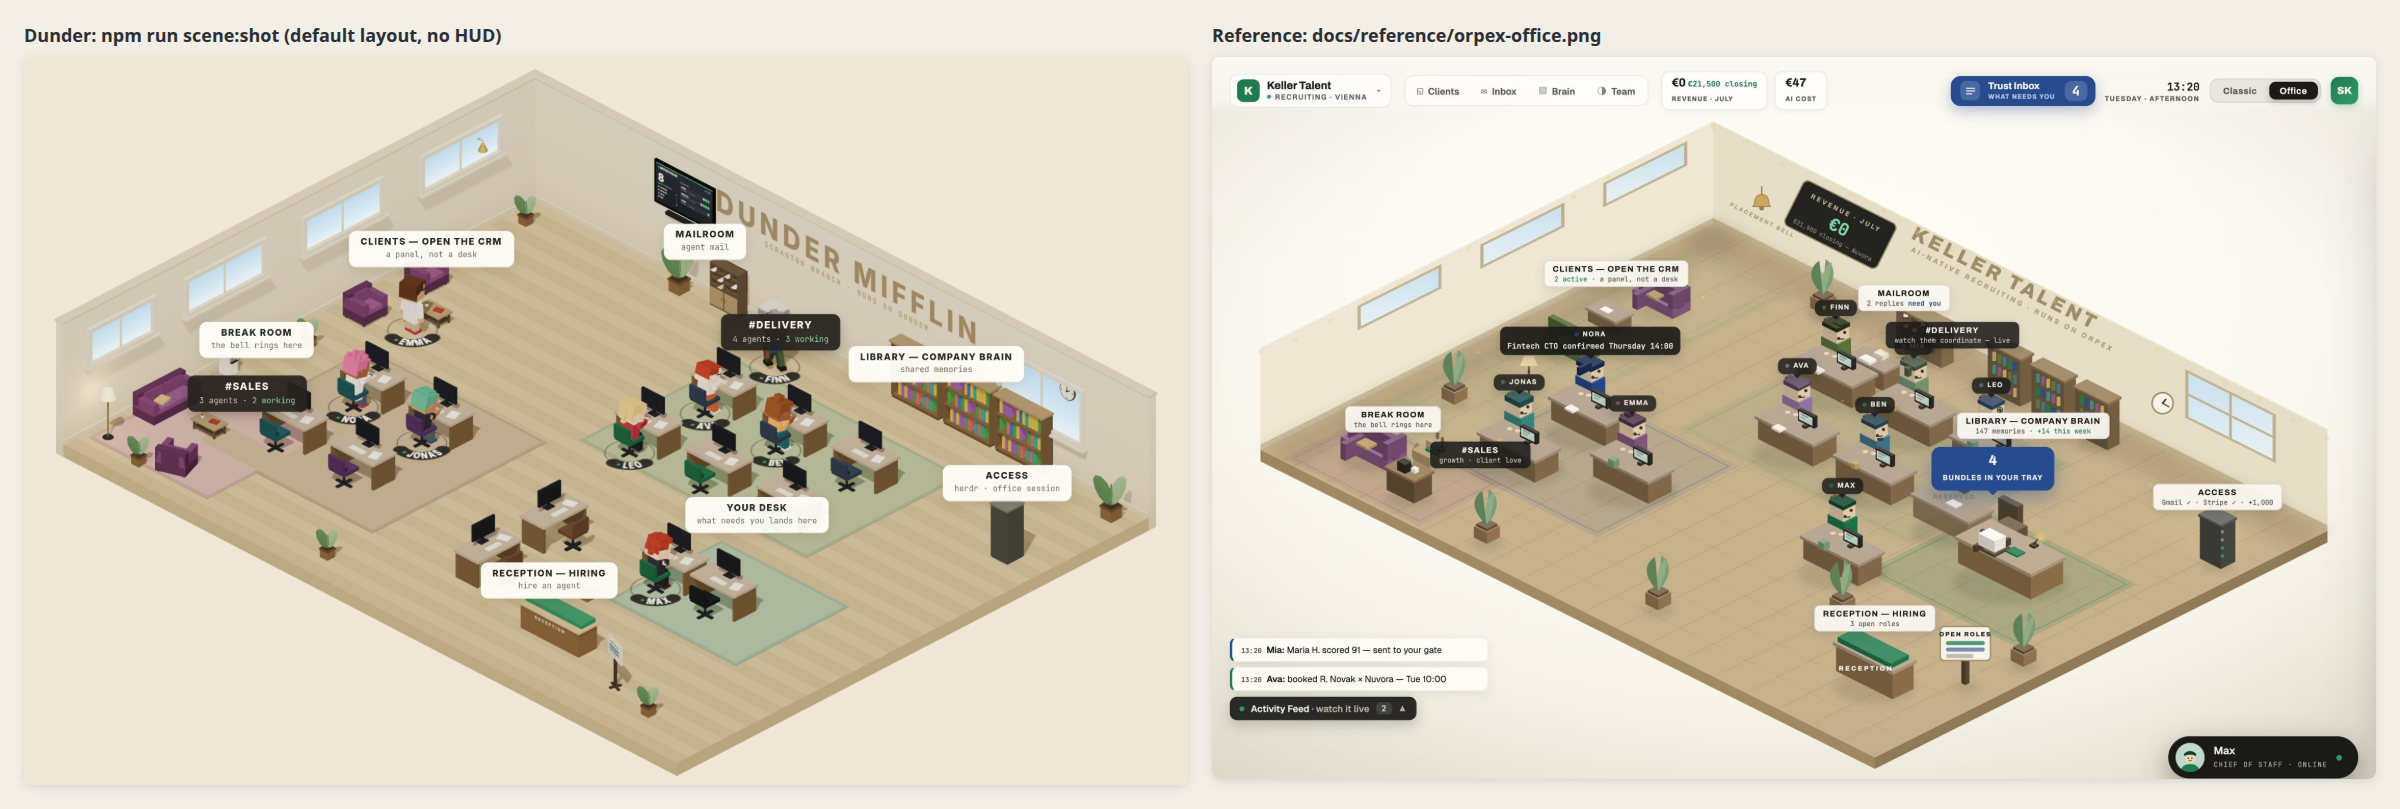
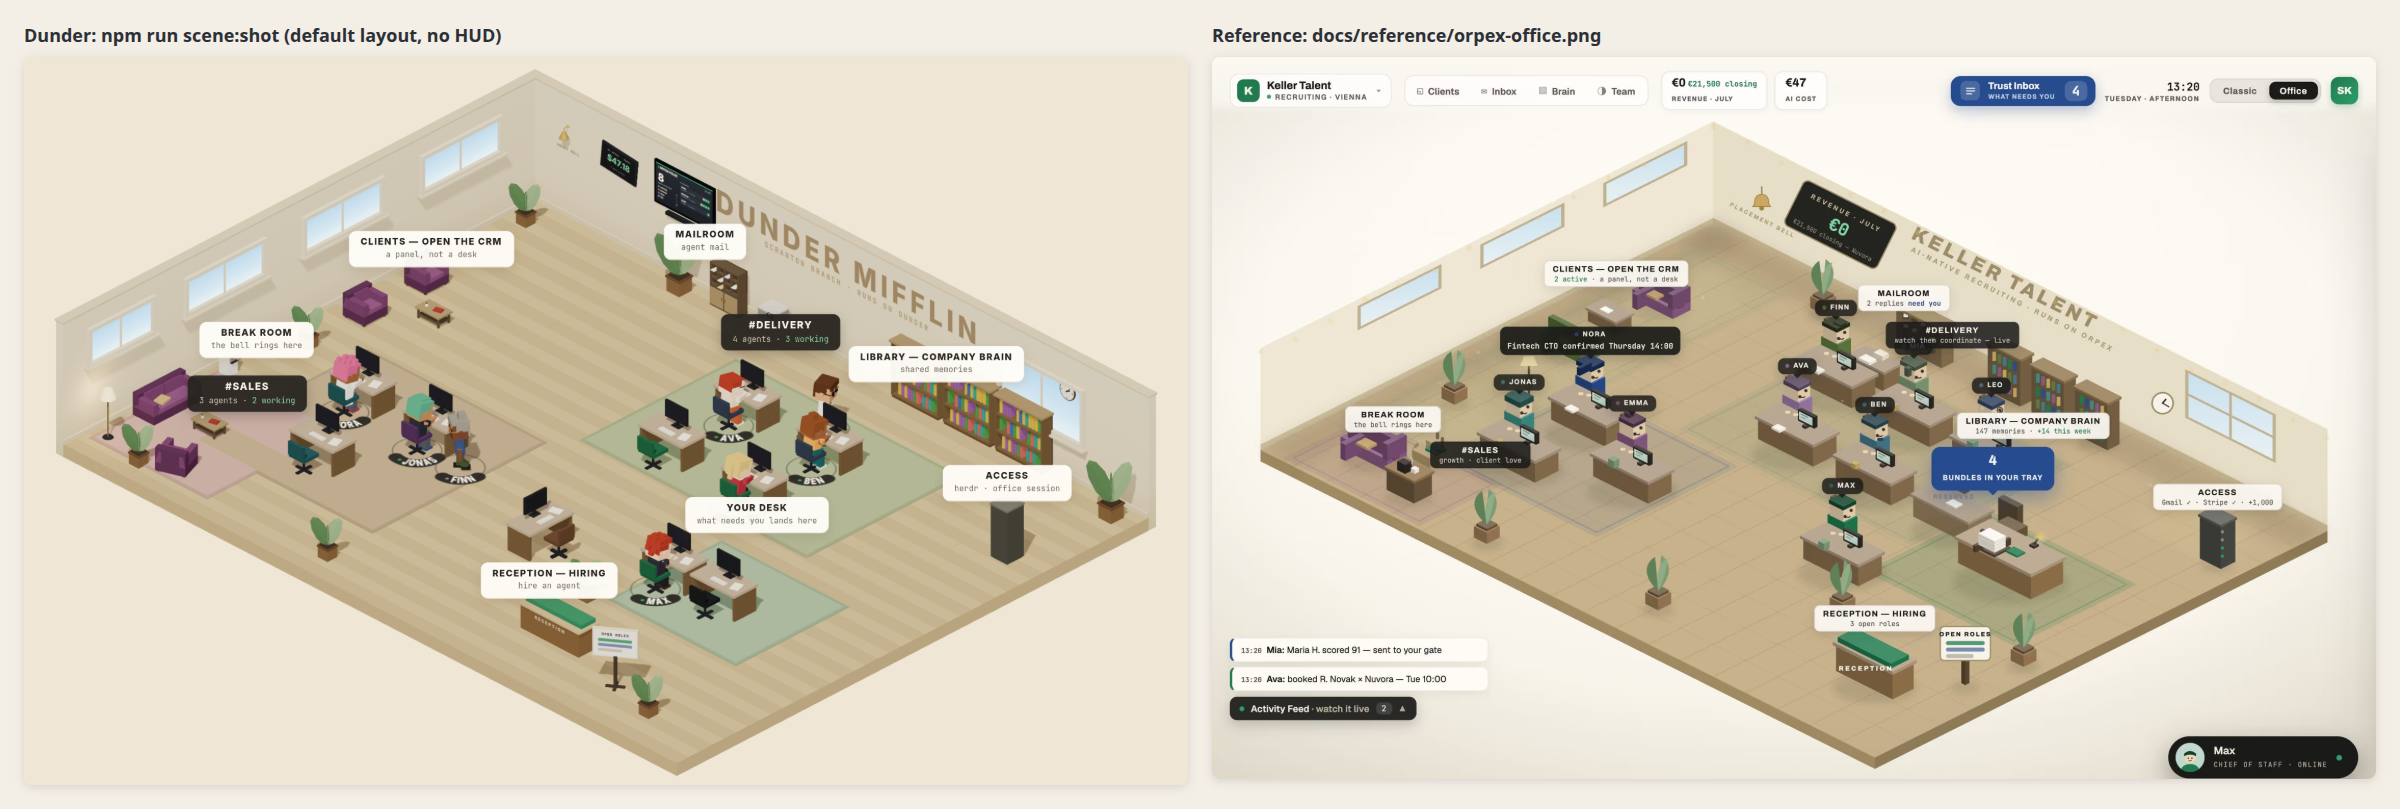
office-vl9.8: fewer, mostly filled desks; bigger plants and OPEN ROLES board; AI spend wall placard beside a labelled bell; new scene shots

diff --git a/src/shared/layout/default-layout.ts b/src/shared/layout/default-layout.ts
@@ -82,79 +82,60 @@ export const DEFAULT_LAYOUT: Layout = layoutSchema.parse({
 			labelAt: { x: 5.4, z: 7.8 },
 		},
 	],
+	// Few stations, mostly filled, as in the reference: a staggered sales pod, a
+	// 2 × 2 delivery block and one shared desk for agents from other workspaces.
+	// Edit mode adds desks as the team grows.
 	desks: [
 		{
 			id: "sales-1",
-			position: { x: -8.3, z: 1.6 },
+			position: { x: -8.3, z: 2 },
 			rotation: 0,
 			zoneId: "sales",
 			chairColor: "#2f5d63",
 		},
 		{
 			id: "sales-2",
-			position: { x: -5.4, z: 1.6 },
+			position: { x: -5.2, z: 2 },
 			rotation: 0,
 			zoneId: "sales",
 			chairColor: "#5d3f6a",
 		},
 		{
 			id: "sales-3",
-			position: { x: -8.3, z: 4.9 },
+			position: { x: -6.8, z: 5.2 },
 			rotation: 0,
 			zoneId: "sales",
 			chairColor: "#2f5d63",
 		},
 		{
-			id: "sales-4",
-			position: { x: -5.4, z: 4.9 },
-			rotation: 0,
-			zoneId: "sales",
-			chairColor: "#5d3f6a",
-		},
-		{
 			id: "delivery-1",
-			position: { x: -0.6, z: -5.6 },
+			position: { x: 0.4, z: -5.6 },
 			rotation: 0,
 			zoneId: "delivery",
 			chairColor: "#3d4a5c",
 		},
 		{
 			id: "delivery-2",
-			position: { x: 2.4, z: -5.6 },
+			position: { x: 3.9, z: -5.6 },
 			rotation: 0,
 			zoneId: "delivery",
 			chairColor: "#3d4a5c",
 		},
 		{
 			id: "delivery-3",
-			position: { x: 5.4, z: -5.6 },
+			position: { x: 0.4, z: -2.4 },
 			rotation: 0,
 			zoneId: "delivery",
-			chairColor: "#3d4a5c",
+			chairColor: "#2f6b4c",
 		},
 		{
 			id: "delivery-4",
-			position: { x: -0.6, z: -2.4 },
+			position: { x: 3.9, z: -2.4 },
 			rotation: 0,
 			zoneId: "delivery",
 			chairColor: "#2f6b4c",
 		},
-		{
-			id: "delivery-5",
-			position: { x: 2.4, z: -2.4 },
-			rotation: 0,
-			zoneId: "delivery",
-			chairColor: "#2f6b4c",
-		},
-		{
-			id: "delivery-6",
-			position: { x: 5.4, z: -2.4 },
-			rotation: 0,
-			zoneId: "delivery",
-			chairColor: "#2f6b4c",
-		},
-		{ id: "open-1", position: { x: 1.2, z: 3.4 }, rotation: 90, chairColor: "#6b4f3a" },
-		{ id: "open-2", position: { x: 1.2, z: 6.2 }, rotation: 90, chairColor: "#6b4f3a" },
+		{ id: "open-1", position: { x: 1.2, z: 4 }, rotation: 90, chairColor: "#6b4f3a" },
 		{
 			id: "your-desk",
 			position: { x: 7.6, z: 2.6 },
@@ -189,15 +170,16 @@ export const DEFAULT_LAYOUT: Layout = layoutSchema.parse({
 		{ id: "shelf-3", kind: "bookshelf", position: { x: 8, z: -9.7 } },
 		{ id: "server-rack", kind: "server-rack", position: { x: 11.6, z: -5.4 }, rotation: -90 },
 		{ id: "reception", kind: "reception-desk", position: { x: 5.4, z: 7.4 } },
-		{ id: "open-roles", kind: "notice-board", position: { x: 8.6, z: 8.2 }, rotation: -20 },
+		// Turned toward the camera (which looks from +x/+z), so its front faces the viewer.
+		{ id: "open-roles", kind: "notice-board", position: { x: 8.6, z: 8.2 }, rotation: 35 },
 		{
 			id: "bell",
 			kind: "wall-bell",
-			position: { x: -13, z: -7.6 },
-			rotation: 90,
+			position: { x: -11.6, z: -10 },
 			elevation: 2.9,
 			label: "AGENT BELL",
 		},
+		{ id: "spend-placard", kind: "wall-placard", position: { x: -9.4, z: -10 }, elevation: 2.8 },
 		{ id: "tv", kind: "wall-tv", position: { x: -6.6, z: -10 }, elevation: 2.9 },
 		{ id: "clock", kind: "wall-clock", position: { x: 9.6, z: -10 }, elevation: 3 },
 		{ id: "plant-1", kind: "plant", position: { x: -11.8, z: 0.8 } },

diff --git a/src/renderer/src/features/office/decor/wall-items.tsx b/src/renderer/src/features/office/decor/wall-items.tsx
@@ -3,6 +3,7 @@ import { useFrame, useThree } from "@react-three/fiber";
 import { useEffect, useRef, useState } from "react";
 import type { Group } from "three";
 import { ringBell } from "../../calisthenics/workout-store";
+import { useCostToday } from "../../hud/live-data";
 import { FONTS } from "../fonts";
 import { Clickable } from "../interaction/Clickable";
 import { PALETTE } from "./palette";
@@ -80,19 +81,82 @@ export function WallBell({ label }: DecorProps) {
 				</group>
 			</group>
 			{label ? (
+				// Painted on the wall below the bell, large enough to read from the overview.
 				<Text
 					font={FONTS.monoBold}
-					fontSize={0.07}
+					fontSize={0.12}
 					letterSpacing={0.2}
-					color="#a08b68"
+					color="#7d6748"
 					anchorX="center"
 					anchorY="top"
-					position={[0, -0.28, 0.004]}
+					position={[0, -0.5, 0.004]}
 				>
 					{label.toUpperCase()}
 				</Text>
 			) : null}
 		</Clickable>
+	);
+}
+
+const usd = new Intl.NumberFormat("en-US", { style: "currency", currency: "USD" });
+const PLACARD_W = 1.5;
+const PLACARD_H = 0.9;
+/** Hung slightly askew, like the reference's revenue placard. */
+const PLACARD_TILT = -0.1;
+
+/**
+ * Dark wall placard with today's AI spend in green, live from the office-stats
+ * IPC (the figure the HUD's AI cost tile shows); a dash while it is unavailable.
+ * `label` replaces the caption.
+ */
+export function WallPlacard({ label = "AI SPEND · TODAY" }: DecorProps) {
+	const cost = useCostToday();
+	const figure = cost.state === "ok" ? usd.format(cost.usd) : "—";
+	const detail =
+		cost.state === "ok"
+			? `${cost.sessions} agent session${cost.sessions === 1 ? "" : "s"}`
+			: "not tracked yet";
+	return (
+		<group rotation={[0, 0, PLACARD_TILT]}>
+			<Block size={[PLACARD_W, PLACARD_H, 0.06]} position={[0, 0, 0.03]} color={PALETTE.charcoal} />
+			<Block
+				size={[PLACARD_W - 0.1, PLACARD_H - 0.1, 0.01]}
+				position={[0, 0, 0.065]}
+				color="#24272c"
+				noShadow
+			/>
+			<Text
+				font={FONTS.monoBold}
+				fontSize={0.075}
+				letterSpacing={0.22}
+				color="#d9cfbd"
+				anchorX="center"
+				anchorY="middle"
+				position={[0, 0.27, 0.072]}
+			>
+				{label.toUpperCase()}
+			</Text>
+			<Text
+				font={FONTS.display}
+				fontSize={0.3}
+				color={PALETTE.ledGreen}
+				anchorX="center"
+				anchorY="middle"
+				position={[0, 0.02, 0.072]}
+			>
+				{figure}
+			</Text>
+			<Text
+				font={FONTS.mono}
+				fontSize={0.06}
+				color="#9a978f"
+				anchorX="center"
+				anchorY="middle"
+				position={[0, -0.27, 0.072]}
+			>
+				{detail}
+			</Text>
+		</group>
 	);
 }
 

diff --git a/src/renderer/src/features/office/decor/signage.tsx b/src/renderer/src/features/office/decor/signage.tsx
@@ -56,16 +56,19 @@ const POSTINGS = [
 	{ width: 0.46, color: PALETTE.postingGray },
 ] as const;
 
+/** The board face is drawn at 1:1 and shown this much larger, to read at reception like the reference. */
+const BOARD_SCALE = 1.55;
+
 /** Freestanding board on a post; `label` is the title above coloured postings. */
 export function NoticeBoard({ label = "OPEN ROLES" }: DecorProps) {
-	const post = 1.0;
-	const boardY = post + 0.3;
+	const post = 1.1;
+	const boardY = post + 0.3 * BOARD_SCALE;
 	return (
 		<group>
-			<Block size={[0.5, 0.05, 0.08]} position={[0, 0.025, 0]} color={PALETTE.woodDeep} />
-			<Block size={[0.08, 0.05, 0.4]} position={[0, 0.025, 0]} color={PALETTE.woodDeep} />
-			<Block size={[0.08, post, 0.08]} position={[0, post / 2, 0]} color={PALETTE.woodDeep} />
-			<group position={[0, boardY, 0]}>
+			<Block size={[0.6, 0.05, 0.1]} position={[0, 0.025, 0]} color={PALETTE.woodDeep} />
+			<Block size={[0.1, 0.05, 0.5]} position={[0, 0.025, 0]} color={PALETTE.woodDeep} />
+			<Block size={[0.1, post, 0.1]} position={[0, post / 2, 0]} color={PALETTE.woodDeep} />
+			<group position={[0, boardY, 0]} scale={BOARD_SCALE}>
 				<Block size={[0.9, 0.64, 0.05]} color={PALETTE.boardBorder} />
 				<Block size={[0.84, 0.58, 0.01]} position={[0, 0, 0.03]} color={PALETTE.paper} />
 				<Text

diff --git a/src/renderer/src/features/office/decor/plants.tsx b/src/renderer/src/features/office/decor/plants.tsx
@@ -102,18 +102,19 @@ function vLeaves(length: number, width: number): LeafSpec[] {
 	];
 }
 
-const SMALL_POT: PotSpec = { side: 0.36, height: 0.32 };
-const SMALL_LEAVES = vLeaves(0.72, 0.36);
+// Sized against the reference, where potted plants stand about as tall as a seated agent.
+const SMALL_POT: PotSpec = { side: 0.46, height: 0.42 };
+const SMALL_LEAVES = vLeaves(1.08, 0.5);
 
-const TALL_POT: PotSpec = { side: 0.5, height: 0.44 };
-const TALL_LEAVES = vLeaves(1.16, 0.48);
+const TALL_POT: PotSpec = { side: 0.6, height: 0.54 };
+const TALL_LEAVES = vLeaves(1.62, 0.64);
 
-/** Potted plant ≈ 1.0 tall: a square planter and broad low-poly leaves. */
+/** Potted plant ≈ 1.5 tall: a square planter and broad low-poly leaves. */
 export function Plant() {
 	return <PottedPlant pot={SMALL_POT} leaves={SMALL_LEAVES} />;
 }
 
-/** Floor plant ≈ 1.6 tall in a larger planter. */
+/** Floor plant ≈ 2.2 tall in a larger planter. */
 export function TallPlant() {
 	return <PottedPlant pot={TALL_POT} leaves={TALL_LEAVES} />;
 }

diff --git a/src/renderer/src/features/office/decor/index.ts b/src/renderer/src/features/office/decor/index.ts
@@ -7,13 +7,13 @@ import type { DecorProps } from "./props";
 import { Armchair, CoffeeTable, Sofa } from "./seating";
 import { NoticeBoard, ReceptionDesk } from "./signage";
 import { Bookshelf, MailCubby } from "./storage";
-import { WallBell, WallClock } from "./wall-items";
+import { WallBell, WallClock, WallPlacard } from "./wall-items";
 
 export type { DecorProps } from "./props";
 
 /**
  * Component for every decor kind. Floor kinds stand on y = 0 centred on their footprint;
- * wall kinds (wall-bell, wall-clock, wall-tv) have their back plane at z = 0 and are
+ * wall kinds (wall-bell, wall-clock, wall-tv, wall-placard) have their back plane at z = 0 and are
  * centred on the origin. Fronts face local +z.
  */
 export const DECOR: Record<DecorKind, ComponentType<DecorProps>> = {
@@ -33,4 +33,5 @@ export const DECOR: Record<DecorKind, ComponentType<DecorProps>> = {
 	"water-cooler": WaterCooler,
 	printer: Printer,
 	"wall-tv": WallTv,
+	"wall-placard": WallPlacard,
 };

diff --git a/src/renderer/src/features/edit/handles.ts b/src/renderer/src/features/edit/handles.ts
@@ -16,8 +16,8 @@ export interface HandleBox {
 
 /** Rough footprint (w × h × d, metres) of each decor kind; wall kinds hang centred on `elevation`. */
 const DECOR_SIZE: Record<DecorKind, Vec3> = {
-	plant: [0.7, 1.1, 0.7],
-	"tall-plant": [0.8, 1.9, 0.8],
+	plant: [0.9, 1.5, 0.9],
+	"tall-plant": [1.1, 2.3, 1.1],
 	bookshelf: [2.2, 2.2, 0.6],
 	sofa: [2.2, 0.95, 1],
 	armchair: [1, 0.95, 1],
@@ -28,16 +28,18 @@ const DECOR_SIZE: Record<DecorKind, Vec3> = {
 	"wall-clock": [0.8, 0.8, 0.15],
 	"floor-lamp": [0.5, 1.8, 0.5],
 	"mail-cubby": [1.7, 1.7, 0.6],
-	"notice-board": [1.5, 1.6, 0.4],
+	"notice-board": [1.5, 2.1, 0.4],
 	"water-cooler": [0.55, 1.35, 0.55],
 	printer: [0.9, 1, 0.7],
 	"wall-tv": [2.2, 1.3, 0.15],
+	"wall-placard": [1.5, 0.9, 0.1],
 };
 
 const WALL_KINDS: Partial<Record<DecorKind, true>> = {
 	"wall-bell": true,
 	"wall-clock": true,
 	"wall-tv": true,
+	"wall-placard": true,
 };
 
 /** Every editable item, in draw order. */

diff --git a/scripts/scene-shot/page/fake-office.ts b/scripts/scene-shot/page/fake-office.ts
@@ -84,6 +84,15 @@ const fakeOffice = {
 		recent: async () => [],
 		onMessage: () => unsubscribe,
 	},
+	// A sample day's AI spend, so the wall placard shows a figure as it does in the app.
+	stats: {
+		costToday: async () => ({ state: "ok", day: "2026-10-06", usd: 47.18, sessions: 9 }),
+		onCostToday: () => unsubscribe,
+		memories: async () => ({ projects: [] }),
+		remember: async () => ({ ok: false, reason: "scene-shot" }),
+		forget: async () => ({ ok: false, reason: "scene-shot" }),
+		markSeen: async () => ({ ok: true }),
+	},
 } satisfies Pick<
 	OfficeApi,
 	| "getSnapshot"
@@ -96,6 +105,7 @@ const fakeOffice = {
 	| "screens"
 	| "calisthenics"
 	| "switchboard"
+	| "stats"
 >;
 
 Object.defineProperty(window, "office", { value: fakeOffice });

diff --git a/src/renderer/src/features/office/behaviour/nav-grid.ts b/src/renderer/src/features/office/behaviour/nav-grid.ts
@@ -19,6 +19,7 @@ const DECOR_FOOTPRINT: Record<DecorKind, readonly [number, number]> = {
 	"wall-bell": [0, 0],
 	"wall-clock": [0, 0],
 	"wall-tv": [0, 0],
+	"wall-placard": [0, 0],
 };
 
 /** Desk body footprint in desk-local space (the chair area stays walkable). */

diff --git a/src/shared/layout/ops.ts b/src/shared/layout/ops.ts
@@ -23,6 +23,7 @@ const WALL_ELEVATION: Partial<Record<DecorKind, number>> = {
 	"wall-bell": 2.9,
 	"wall-clock": 3,
 	"wall-tv": 2.9,
+	"wall-placard": 2.8,
 };
 
 /** `prefix-N` with the smallest N not used by any item of the layout. */

diff --git a/src/shared/layout/schema.ts b/src/shared/layout/schema.ts
@@ -27,6 +27,7 @@ export const decorKinds = [
 	"water-cooler",
 	"printer",
 	"wall-tv",
+	"wall-placard",
 ] as const;
 export type DecorKind = (typeof decorKinds)[number];
 
